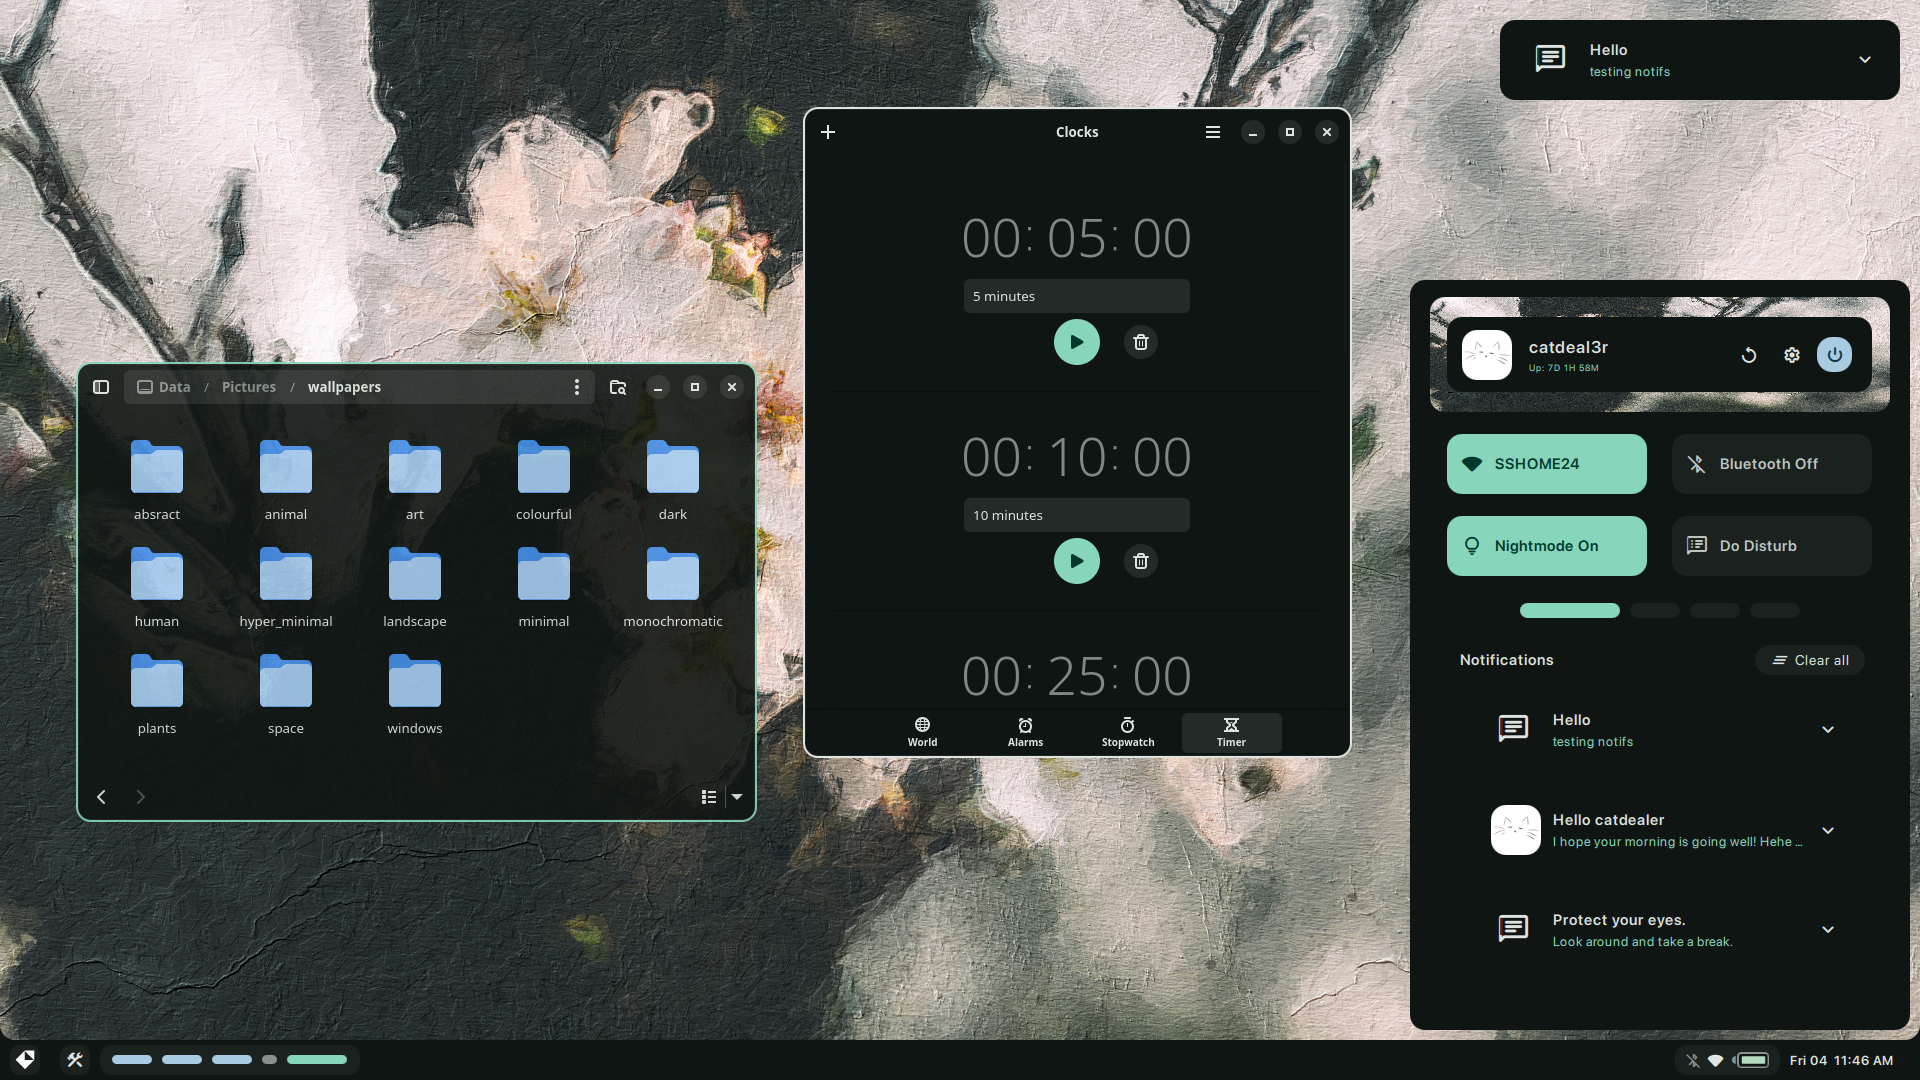
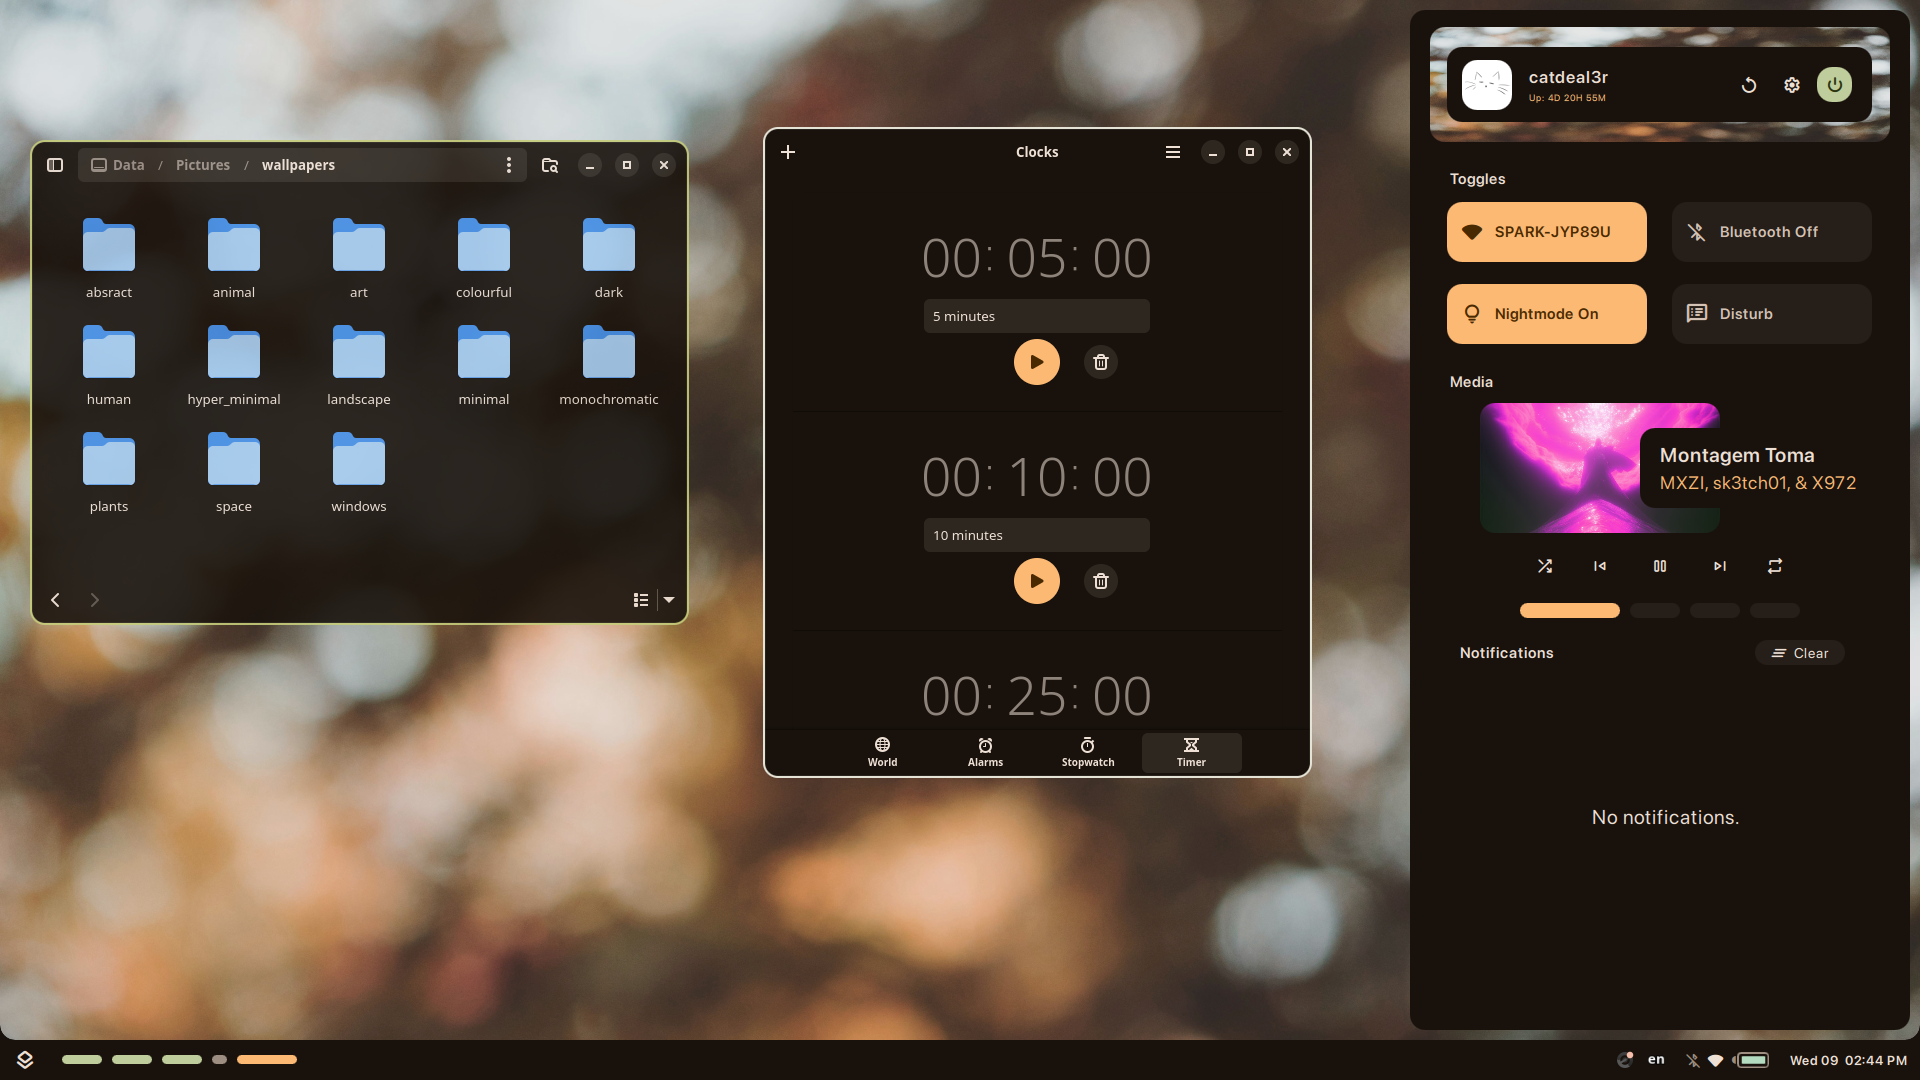
Readme

diff --git a/README.md b/README.md
@@ -93,6 +93,8 @@ https://github.com/user-attachments/assets/767b5f0d-4ffc-46d6-8b4d-1ea0c74d42dc
 - [x] Start converting config into json `v0.2`
 - [x] Make matugen not trigger a reload on colour change `v0.2`
 - [x] Added support for a top bar `v0.2`
+- [x] Improved dashboard animations and design `v0.3`
+- [x] Basic player control added to dashboard `v0.3`
 
 ### Still to come
 - [ ] Create userboard, and tools menu.
